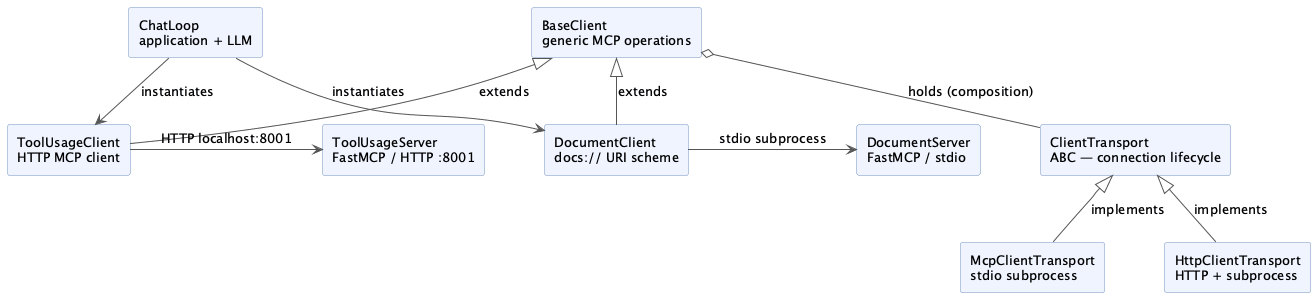
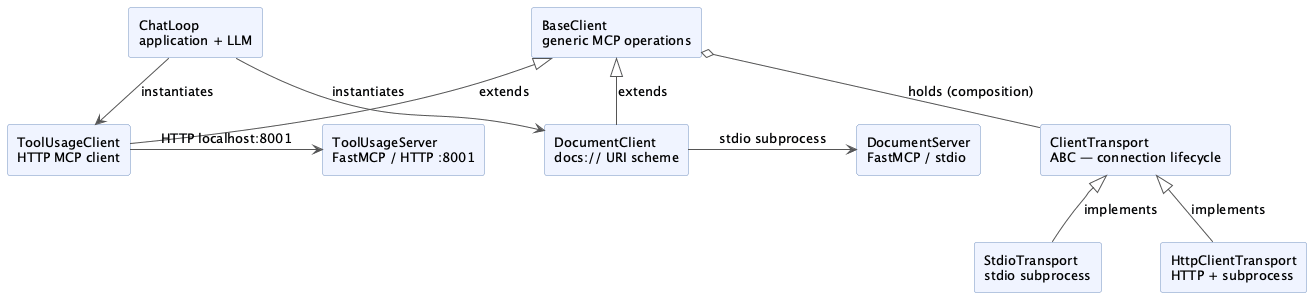
refactor:Rename McpClientTransport to StdioTransport

diff --git a/src/mcp_components/clients/document_client.py b/src/mcp_components/clients/document_client.py
@@ -5,14 +5,14 @@ import mcp.types
 from pydantic import AnyUrl
 
 from mcp_components.infra.base_client import BaseClient
-from mcp_components.infra.transports import McpClientTransport
+from mcp_components.infra.transports import StdioTransport
 
 
 class DocumentClient(BaseClient):
     """Example client that connects to an MCP server exposing documents as resources."""
 
     def __init__(self):
-        transport = McpClientTransport(
+        transport = StdioTransport(
             command="uv",
             args=["run", "src/mcp_components/servers/document_server.py"],
         )

diff --git a/src/mcp_components/infra/transports.py b/src/mcp_components/infra/transports.py
@@ -34,7 +34,7 @@ class ClientTransport(abc.ABC):
     async def cleanup(self) -> None: ...
 
 
-class McpClientTransport(ClientTransport):
+class StdioTransport(ClientTransport):
     """MCP client transport over stdio.
 
     Spawns the server as a child process and communicates via stdin/stdout.

diff --git a/docs/mcp-architecture.md b/docs/mcp-architecture.md
@@ -12,7 +12,7 @@ The MCP client stack is organized into three layers, each with a distinct respon
 
 **`ClientTransport`** is the abstract base for all transport implementations. It owns the async context manager protocol (`__aenter__` / `__aexit__`) once, so subclasses don't repeat it. Every concrete transport must implement `connect()`, `cleanup()`, and the `_session` property.
 
-**`McpClientTransport`** implements `ClientTransport` over stdio. It spawns the server as a child process, initializes the MCP session over stdin/stdout, and exposes the session as a protected property. The backing field (`__session`) is name-mangled to prevent access from outside the class.
+**`StdioTransport`** implements `ClientTransport` over stdio. It spawns the server as a child process, initializes the MCP session over stdin/stdout, and exposes the session as a protected property. The backing field (`__session`) is name-mangled to prevent access from outside the class.
 
 **`HttpClientTransport`** implements `ClientTransport` over StreamableHTTP. It optionally spawns the server as a subprocess (via `uv run <server_script>`), waits for the HTTP endpoint to accept connections with a configurable retry budget, then initializes the MCP session over the HTTP streams. On cleanup, the MCP session is closed first and then the subprocess is terminated, avoiding broken-pipe errors.
 
@@ -22,7 +22,7 @@ Nothing in `components/` knows about any specific server or URI scheme.
 
 ### Domain layer (`mcp_components/`)
 
-**`DocumentClient`** constructs a `McpClientTransport` internally (spawning `document_server.py` as a subprocess) and passes it to `BaseClient`. It implements `get_resource(uri)` for the `docs://` scheme: delegates the MCP fetch to `_fetch_resource`, then owns all response parsing — picking `contents[0]`, checking the mime type, and decoding JSON if needed.
+**`DocumentClient`** constructs a `StdioTransport` internally (spawning `document_server.py` as a subprocess) and passes it to `BaseClient`. It implements `get_resource(uri)` for the `docs://` scheme: delegates the MCP fetch to `_fetch_resource`, then owns all response parsing — picking `contents[0]`, checking the mime type, and decoding JSON if needed.
 
 **`DocumentServer`** is the FastMCP server that `DocumentClient` connects to over stdio. It exposes:
 - `docs://documents` — a static resource listing all document names
@@ -43,7 +43,7 @@ Nothing in `components/` knows about any specific server or URI scheme.
 
 ## Key design decisions
 
-**Composition over inheritance for `BaseClient`.** The original design had `BaseClient` extend `McpClientTransport` directly, which hardwired stdio as the only transport. Switching to composition (`BaseClient` holds a `ClientTransport`) makes the transport pluggable without any changes to `BaseClient` or its subclasses. Each domain client constructs the transport it needs and passes it up.
+**Composition over inheritance for `BaseClient`.** The original design had `BaseClient` extend `StdioTransport` directly, which hardwired stdio as the only transport. Switching to composition (`BaseClient` holds a `ClientTransport`) makes the transport pluggable without any changes to `BaseClient` or its subclasses. Each domain client constructs the transport it needs and passes it up.
 
 **`BaseClient` accesses `self._transport._session` directly.** This crosses one protected boundary by design. `BaseClient` lives in the same `components/` package and is the only non-transport code that needs the raw `ClientSession`. The single-underscore convention signals "internal to this package," which applies here.
 
@@ -53,6 +53,6 @@ Nothing in `components/` knows about any specific server or URI scheme.
 
 **`call_tool` is concrete on `BaseClient`.** MCP's tool-calling protocol is fully generic — the server defines the tool, and the session handles serialization. There is no server-specific logic to encapsulate, so no subclass needs to override it.
 
-**`HttpClientTransport` manages the server subprocess lifecycle.** Spawning the server inside the transport (rather than requiring it to be running externally) keeps the demo self-contained, mirroring how `McpClientTransport` spawns its stdio subprocess. The subprocess is terminated after the MCP session closes to avoid broken-pipe errors on the server side.
+**`HttpClientTransport` manages the server subprocess lifecycle.** Spawning the server inside the transport (rather than requiring it to be running externally) keeps the demo self-contained, mirroring how `StdioTransport` spawns its stdio subprocess. The subprocess is terminated after the MCP session closes to avoid broken-pipe errors on the server side.
 
-**The session is fully encapsulated within each transport.** Both `McpClientTransport.__session` and `HttpClientTransport.__session` are name-mangled, preventing access from outside their respective classes. Subclasses and `BaseClient` reach the session through the `_session` property.
+**The session is fully encapsulated within each transport.** Both `StdioTransport.__session` and `HttpClientTransport.__session` are name-mangled, preventing access from outside their respective classes. Subclasses and `BaseClient` reach the session through the `_session` property.
